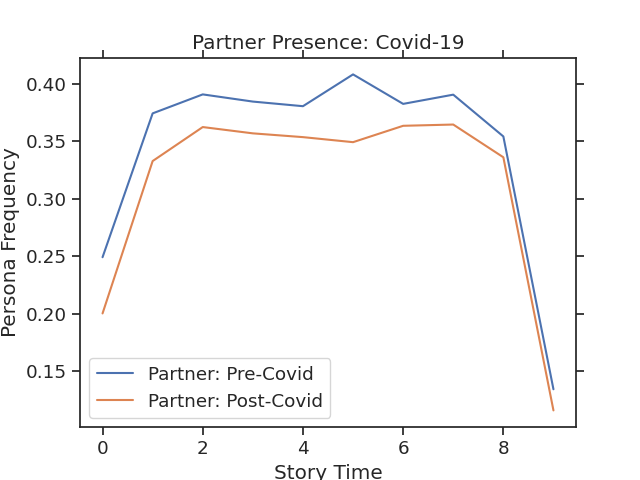
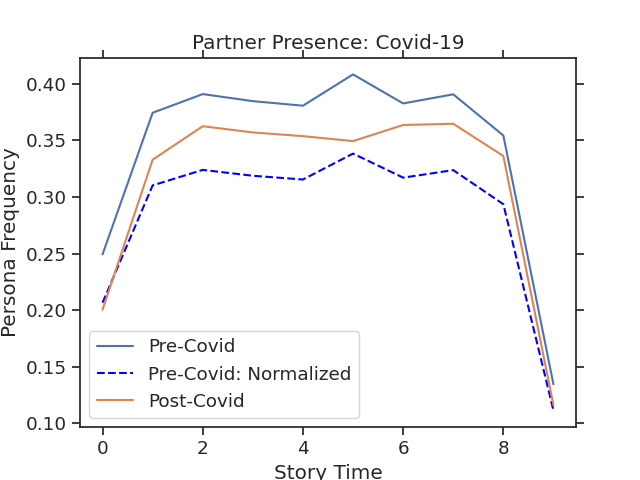
t tests and normalization for personas

diff --git a/src/Personas.py b/src/Personas.py
@@ -42,14 +42,30 @@ def count_chunks(series, dc):
         mentions.append(counter(chunk, dc))
     return mentions
 
+def make_plots(pre_df, normalized, post_df):
+    fig = im.plt.figure()
+    ax = fig.add_subplot(111)
+    for i in range(pre_df.shape[1]):
+        ax.clear()
+        persona_label = pre_df.iloc[:, i].name
+        ax.plot(pre_df.iloc[:,i], label = f"Pre-Covid")
+        ax.plot(normalized.iloc[:,i], label = f"Pre-Covid: Normalized", linestyle='dashed', color='blue')
+        ax.plot(post_df.iloc[:,i], label = f"Post-Covid")
+        ax.set_title(f"{persona_label} Presence: Covid-19")
+        ax.set_xlabel('Story Time')
+        ax.set_ylabel('Persona Frequency')
+        ax.legend()
+        fig.savefig(f'../data/Personas_Pre_Post/{persona_label}_pre_post_frequency.png')
+
 #makes plots of persona mention over narrative time for any number of dfs
-def make_plots(pre_df, m_j_df, j_n_df, n_a_df, a_j_df):
+def make_n_plots(pre_df, norm, m_j_df, j_n_df, n_a_df, a_j_df):
     fig = im.plt.figure(figsize=(15,10))
     ax = fig.add_subplot(111)
     for i in range(pre_df.shape[1]):
         ax.clear()
         persona_label = pre_df.iloc[:, i].name
         ax.plot(pre_df.iloc[:,i], label = f"Pre-Covid")
+        ax.plot(norm.iloc[:,i], label = f"Pre-Covid: Normalized for Story Length", linestyle='dashed')
         ax.plot(m_j_df.iloc[:,i], label = f"March-June 2020")
         ax.plot(j_n_df.iloc[:,i], label = f"June-Nov. 2020")
         ax.plot(n_a_df.iloc[:,i], label = f"Nov. 2020-April 2021")
@@ -61,7 +77,6 @@ def make_plots(pre_df, m_j_df, j_n_df, n_a_df, a_j_df):
         fig.savefig(f'../data/Personas_Throughout_Covid/{persona_label}_throughout_covid_frequency.png')
 
 def main():
-
     #creating lists of words used to assign personas to stories
     author = ['i', 'me', 'myself']
     we = ['we', 'us', 'ourselves']
@@ -76,6 +91,34 @@ def main():
 
     personas_and_n_grams = {'Author': author, 'We': we, 'Baby': baby, 'Doctor': doctor, 'Partner': partner, 'Nurse': nurse, 'Midwife': midwife, 'Family': family, 'Anesthesiologist': anesthesiologist, 'Doula': doula}
 
+    persona_df = im.birth_stories_df[['selftext']]
+
+    #stories containing mentions:
+    total_mentions = persona_df['selftext'].apply(lambda x: counter(x, personas_and_n_grams))
+    #print(total_mentions)
+
+    #finds sum for all stories
+    a = im.np.array(list(total_mentions))
+    number_mentions = a.sum(axis=0)
+
+    story_counts = lb.create_df_label_list(persona_df, 'selftext', personas_and_n_grams, [])
+
+    #average number of mentions per story
+    avg_mentions = number_mentions/story_counts
+
+    #applying functions and making a dictionary of the results for mentions accross stories
+    personas_dict = {'Personas': list(personas_and_n_grams),
+          'N-Grams': list(personas_and_n_grams.values()),
+          'Total Mentions': number_mentions,
+          'Stories Containing Mentions': story_counts, 
+          'Average Mentions per Story': avg_mentions}
+
+    #turn dictionary into a dataframe
+    personas_counts_df = im.pd.DataFrame(personas_dict, index=im.np.arange(10))
+
+    personas_counts_df.set_index('Personas', inplace = True)
+    personas_counts_df.to_csv(f'../data/personas_counts_df.csv')
+
     #name the dfs for easy reference inside the for loop
     im.pre_covid_posts_df.name = 'pre_covid'
     im.post_covid_posts_df.name = 'post_covid'
@@ -85,10 +128,12 @@ def main():
     cvd.apr_june_2021_df.name = 'apr_june'
 
     #list of dfs to iterate through in the for loop
-    dfs = (im.pre_covid_posts_df, cvd.mar_june_2020_df, cvd.june_nov_2020_df, cvd.nov_2020_apr_2021_df, cvd.apr_june_2021_df)
+    dfs = (im.pre_covid_posts_df, im.post_covid_posts_df, cvd.mar_june_2020_df, cvd.june_nov_2020_df, cvd.nov_2020_apr_2021_df, cvd.apr_june_2021_df)
 
     #dictionary to save the dfs to at the end of the for loop for easy reference for plotting
     d = {}
+    dict_for_stats = {}
+    chunk_stats_dict = {}
 
     #iterate through each df in the list above and return a df of average mentions for each persona for each chunk of the average story
     for df in dfs:
@@ -105,6 +150,11 @@ def main():
         #finds sum for all stories
         a = im.np.array(list(total_mentions))
         number_mentions = a.sum(axis=0)
+
+        #makes df w all values for t-test in Persona_Stats.py
+        number_mentions_df = im.pd.DataFrame(im.np.row_stack(a))
+        number_mentions_df.columns = personas_and_n_grams
+        dict_for_stats[df_name] = number_mentions_df
 
         story_counts = lb.create_df_label_list(persona_df, 'selftext', personas_and_n_grams, [])
 
@@ -131,6 +181,12 @@ def main():
 
         b = im.np.array(list(mentions_by_chunk))
         chunk_mentions = b.mean(axis=0)
+
+        print(b)
+
+        chunk_mentions_df = im.pd.DataFrame(im.np.row_stack(b))
+        chunk_mentions_df.columns = personas_and_n_grams
+        chunk_stats_dict[df_name] = chunk_mentions_df
         
         personas_chunks_df = im.pd.DataFrame(chunk_mentions)
         personas_chunks_df.set_axis(list(personas_dict['Personas']), axis=1, inplace=True)
@@ -139,13 +195,40 @@ def main():
 
     #access the created dfs from the dictionary
     pre_covid_personas_df = d['pre_covid']
+    post_covid_personas_df = d['post_covid']
     mar_june_personas_df = d['mar_june']
     june_nov_personas_df = d['june_nov']
     nov_apr_personas_df = d['nov_apr']
     apr_june_personas_df = d['apr_june']
 
+    normalizing_ratio=(1182.53/1427.09)
+    normalized_pre = pre_covid_personas_df*normalizing_ratio
+
+    pre_covid_persona_mentions = dict_for_stats['pre_covid']
+    post_covid_persona_mentions = dict_for_stats['post_covid']
+
+    pre_covid_chunk_mentions = chunk_stats_dict['pre_covid']
+    post_covid_chunk_mentions = chunk_stats_dict['post_covid']
+
+    print(pre_covid_chunk_mentions)
+    print(post_covid_chunk_mentions)
+
+    pre_covid_personas_df.to_csv('persona_csvs/pre_covid_personas_df.csv')
+    post_covid_personas_df.to_csv('persona_csvs/post_covid_personas_df.csv')
+    mar_june_personas_df.to_csv('persona_csvs/mar_june_personas_df.csv')
+    june_nov_personas_df.to_csv('persona_csvs/june_nov_personas_df.csv')
+    nov_apr_personas_df.to_csv('persona_csvs/nov_apr_personas_df.csv')
+    apr_june_personas_df.to_csv('persona_csvs/apr_june_personas_df.csv')
+
+    pre_covid_persona_mentions.to_csv('persona_csvs/pre_covid_persona_mentions.csv')
+    post_covid_persona_mentions.to_csv('persona_csvs/post_covid_persona_mentions.csv')
+
+    pre_covid_chunk_mentions.to_csv('persona_csvs/pre_covid_chunk_mentions.csv')
+    post_covid_chunk_mentions.to_csv('persona_csvs/post_covid_chunk_mentions.csv')
+
     #plots each persona across the story for each df.
-    make_plots(pre_covid_personas_df, mar_june_personas_df, june_nov_personas_df, nov_apr_personas_df, apr_june_personas_df)
+    #make_plots(pre_covid_personas_df, normalized_pre, post_covid_personas_df)
+    #make_n_plots(pre_covid_personas_df, normalized_pre, mar_june_personas_df, june_nov_personas_df, nov_apr_personas_df, apr_june_personas_df)
 
 if __name__ == "__main__":
     main()

diff --git a/src/topic_predictions.py b/src/topic_predictions.py
@@ -1,5 +1,6 @@
 import imports as im
 from prophet import Prophet
+from sklearn.metrics import mean_squared_error, r2_score, mean_absolute_error
 
 def get_post_date(series):
     parsed_date = im.datetime.utcfromtimestamp(series)
@@ -21,6 +22,8 @@ pre_covid = birth_stories_df_cleaned[(birth_stories_df_cleaned.index < '2020-03-
 pre_covid = im.pd.DataFrame(pre_covid.groupby(pre_covid.index).mean())
 birth_stories_df_cleaned = im.pd.DataFrame(birth_stories_df_cleaned.groupby(birth_stories_df_cleaned.index).mean())
 
+r_squareds = []
+
 def predict_topic_trend(df, df2):
     fig = im.plt.figure(figsize=(15,10))
     ax = fig.add_subplot(111)
@@ -31,19 +34,30 @@ def predict_topic_trend(df, df2):
         topic.reset_index(inplace=True)
         topic.columns = ['ds', 'y']
 
+        actual = im.pd.DataFrame(df2.iloc[:,i])
+        actual.reset_index(inplace=True)
+        actual.columns = ['ds', 'y']
+
         m = Prophet()
         m.fit(topic)
 
         future = m.make_future_dataframe(periods=16, freq='MS')
 
         forecast = m.predict(future)
-        #forecast[['ds', 'yhat', 'yhat_lower', 'yhat_upper']].tail()
 
-        fig1 = m.plot(forecast, xlabel='Date', ylabel='Topic Probability', ax=ax)
-        ax.plot(df2.iloc[:, i], color='k')
-        ax = fig.gca()
-        ax.set_title(f'{topic_label} Forecast')
-        im.plt.axvline(im.pd.Timestamp('2020-03-11'),color='r')
-        fig1.savefig(f'../data/Topic_Forecasts/{topic_label}_Prediction_Plot.png')
+        #fig1 = m.plot(forecast, xlabel='Date', ylabel='Topic Probability', ax=ax)
+        #ax.plot(df2.iloc[:, i], color='k')
+        #ax = fig.gca()
+        #ax.set_title(f'{topic_label} Forecast')
+        #im.plt.axvline(im.pd.Timestamp('2020-03-11'),color='r')
+        #fig1.savefig(f'../data/Topic_Forecasts/{topic_label}_Prediction_Plot.png')
+
+        metric_df = forecast.set_index('ds')[['yhat']].join(actual.set_index('ds').y).reset_index()
+        metric_df.dropna(inplace=True)
+        print(metric_df)
+        r_squareds.append(r2_score(metric_df.y, metric_df.yhat))
+        #print(f'R-Squared Value for topic: {r2_score(metric_df.y, metric_df.yhat)}')
+        #print(f'R-Squared Value for topic {topic_label}: {r2_score}')
 
 predict_topic_trend(pre_covid, birth_stories_df_cleaned)
+print(r_squareds)

diff --git a/src/Persona_Stats.py b/src/Persona_Stats.py
@@ -1,0 +1,34 @@
+import imports as im
+from scipy import stats
+from scipy.stats import norm
+
+pre_covid_personas_df = im.pd.read_csv('persona_csvs/pre_covid_personas_df.csv')
+post_covid_personas_df = im.pd.read_csv('persona_csvs/post_covid_personas_df.csv')
+mar_june_personas_df = im.pd.read_csv('persona_csvs/mar_june_personas_df.csv')
+june_nov_personas_df = im.pd.read_csv('persona_csvs/june_nov_personas_df.csv')
+nov_apr_personas_df = im.pd.read_csv('persona_csvs/nov_apr_personas_df.csv')
+apr_june_personas_df = im.pd.read_csv('persona_csvs/apr_june_personas_df.csv')
+
+pre_covid_persona_mentions = im.pd.read_csv('persona_csvs/pre_covid_persona_mentions.csv')
+post_covid_persona_mentions = im.pd.read_csv('persona_csvs/post_covid_persona_mentions.csv')
+
+pre_covid_persona_mentions = pre_covid_persona_mentions.drop('Unnamed: 0', axis=1)
+post_covid_persona_mentions = post_covid_persona_mentions.drop('Unnamed: 0', axis=1)
+
+#normalize pre-covid dataframe for average story length
+normalizing_ratio=(1182.53/1427.09)
+normalized_pre_covid = pre_covid_persona_mentions*normalizing_ratio
+
+def ttest(df, df2):
+	for i in range(df.shape[1]):
+		persona_name = df.iloc[:, i].name
+		pre_covid = df.iloc[:, i]
+		post_covid = df2.iloc[:, i]
+		ttest = stats.ttest_ind(pre_covid, post_covid)
+		print((f"{persona_name} t-test: {ttest}"))
+
+print('Not normalized:')
+ttest(pre_covid_persona_mentions, post_covid_persona_mentions)
+print('------')
+print('Normalized:')
+ttest(normalized_pre_covid, post_covid_persona_mentions)
